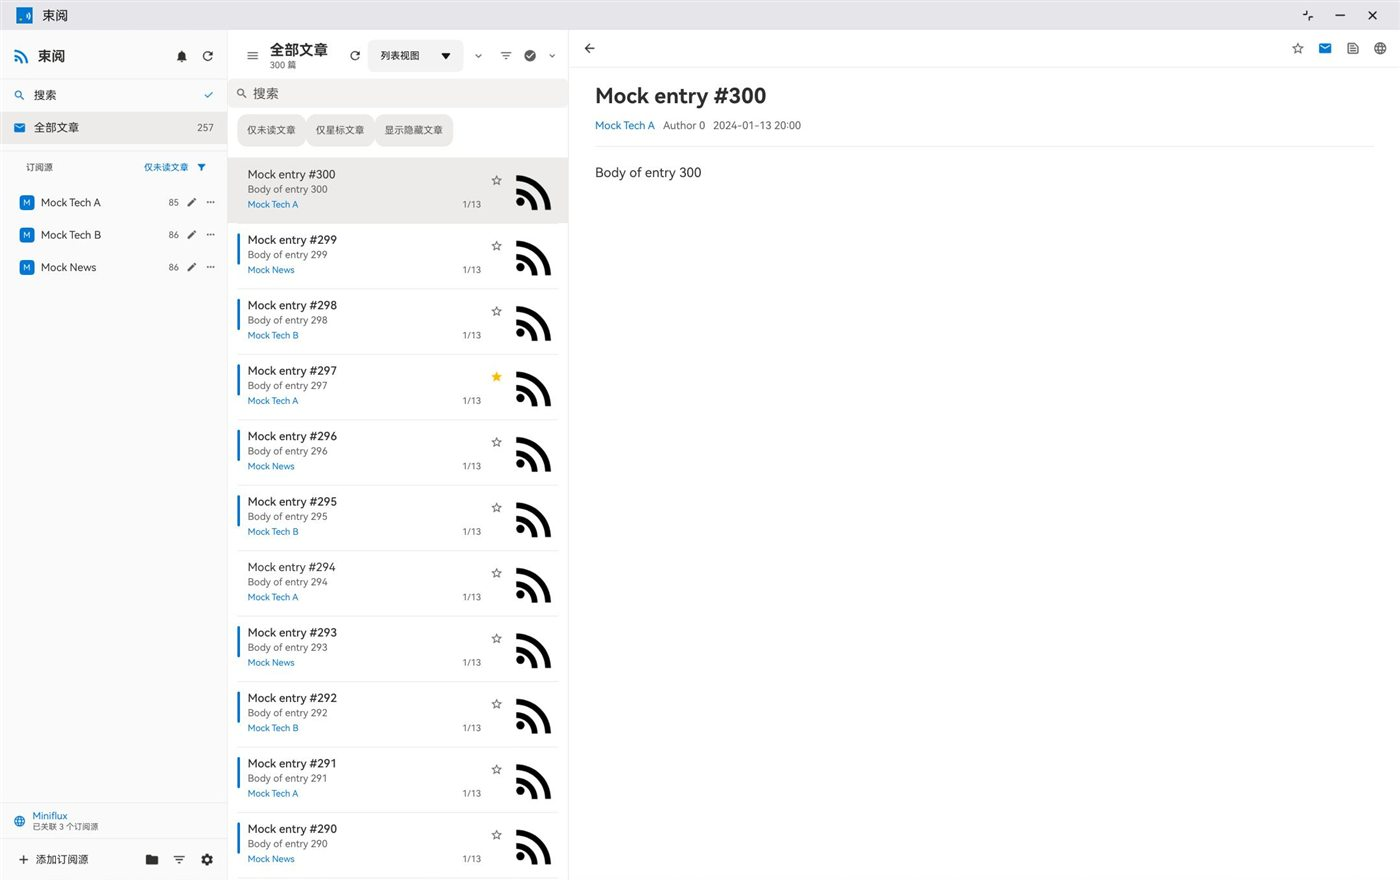
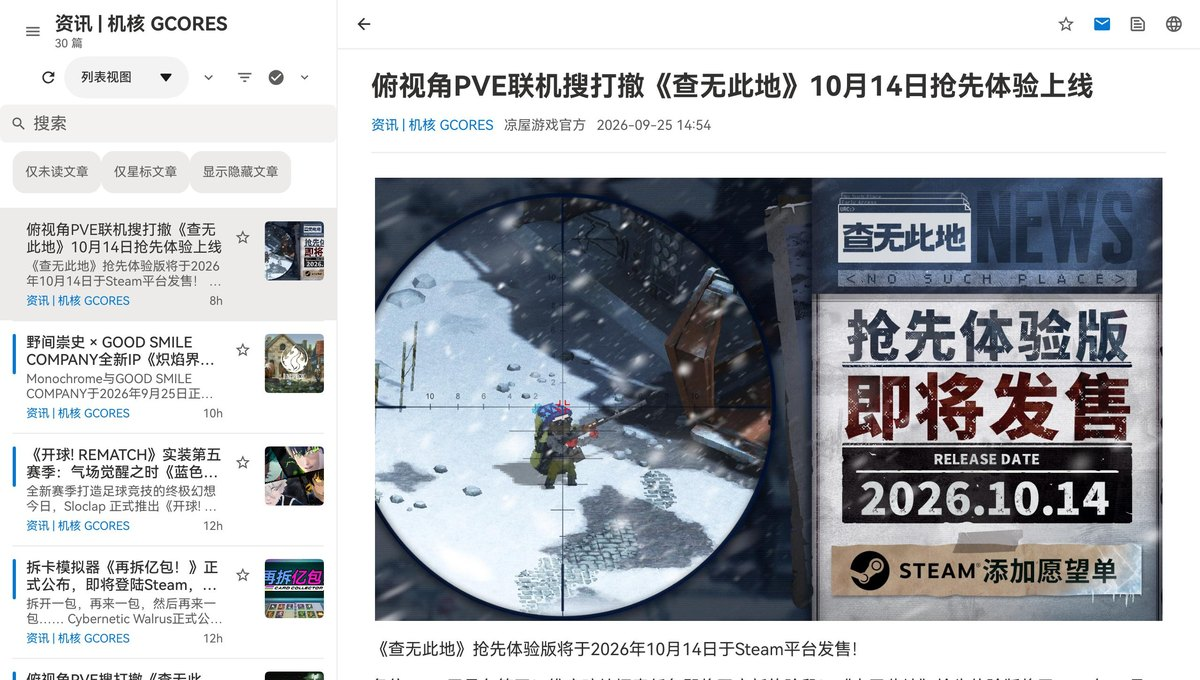
docs: re-shoot the README screenshots from live feeds
The previous set came from the bundled mock server (3 feeds / 300
synthetic articles), so every list row read "Mock entry #300" and none
of them had a cover. Re-shot on the tablet emulator (API 13, 2560x1600,
app full-screen) against a real Miniflux account: real titles, real
bodies and real cover images in the list, the cards and the reader.

- 01-main now shows a single source (机核 GCORES) instead of the mock
  aggregate, since the drawer sidebar cannot share the frame with the
  list and the reader on this device
- 06-service-miniflux keeps the mock-endpoint frame as a parameter
  illustration - it is the only shot without article data
- README: device/data note, the new captions, and the assertion count
  (540 -> 548)

diff --git a/README.md b/README.md
@@ -21,19 +21,21 @@
 - **"移植"的含义**：功能语义、界面相对布局（结构 / 顺序 / 层级 / 操作位次）、数据模型与设置项语义**以上游为蓝本逐项对齐**；
   代码本身是用 ArkTS / ArkUI **重新实现**，不搬运上游 TypeScript 源码。
 - **验证方式**：任何"已完成"都以设备取证为准（`hdc` 的 `dumpLayout` / 截图 / mock 服务端日志），
-  另有 `verify/harness.ts` 的 **540 条**断言跑在**实际发布的源码**上。
+  另有 `verify/harness.ts` 的 **548 条**断言跑在**实际发布的源码**上。
 - **许可**：BSD-3-Clause，保留上游版权声明；派生范围、改名记录与第三方组件见 [NOTICE](NOTICE)。
   本项目为个人非官方移植，与上游作者、与华为均无隶属或背书关系。
 
 ## 截图
 
-> 由 `hdc` 在 HarmonyOS 模拟器（`Huawei_2in1`，窗口最大化）上实时抓取，界面语言简体中文。
-> 数据来自仓库自带的 mock 服务端（`verify/mock-miniflux.js`，3 个订阅源 / 300 篇合成文章），**不含真实账号数据**。
+> 由 `hdc` 在 HarmonyOS 模拟器（平板，API 13，2560×1600，应用全屏）上实时抓取，界面语言简体中文。
+> 均为**真实订阅源**：作者自建 Miniflux 实例上的 3 个源（`news - Sputnik News` / `小众软件` / `资讯 | 机核 GCORES`），
+> 文章、正文与封面图都是同步下来的真实内容；截图中不含端点、令牌等凭据。
+> 「同步服务」一张是本地 mock 端点的**参数示意**（`测试` 返回「连接成功」），不涉及真实账号。
 
-| 主界面（三栏） | 卡片视图 | 正则搜索 |
+| 主界面 | 卡片视图 | 正则搜索 |
 |---|---|---|
 | <img src="docs/images/01-main.jpeg" width="230"> | <img src="docs/images/09-cards.jpeg" width="230"> | <img src="docs/images/08-search.jpeg" width="230"> |
-| 侧栏 + 列表 + 阅读器 | 5 种布局之一 | 标题正则命中 10 篇 |
+| 订阅源 + 列表 + 阅读器 | 5 种布局之一 | 标题正则 `[软游]` 命中 9 篇 |
 
 | 文章菜单 | 视图菜单 | 规则引擎 |
 |---|---|---|
@@ -43,7 +45,7 @@
 | 设置 · 偏好 | 设置 · 数据与清理 | 同步服务 |
 |---|---|---|
 | <img src="docs/images/04-settings-general.jpeg" width="230"> | <img src="docs/images/05-settings-data.jpeg" width="230"> | <img src="docs/images/06-service-miniflux.jpeg" width="230"> |
-| 语言 / 主题 / 字号 | 备份还原 / 清理 | Miniflux（`测试` 返回连接成功） |
+| 语言 / 主题 / 字号 | 备份还原 / 清理 | Miniflux（mock 端点示意） |
 
 ## 功能
 
@@ -72,7 +74,7 @@ hvigorw --mode module -p product=default assembleHap --no-daemon
 ## 验证
 
 ```powershell
-pwsh -File verify/run.ps1      # 540 条断言，跑在实际发布的源码上
+pwsh -File verify/run.ps1      # 548 条断言，跑在实际发布的源码上
 ```
 
 脚本把 `entry/src/main/ets` 下的发布源码转成 TS，在 Node 下断言解析、筛选与规则、i18n、抓取排程、通知深链、
